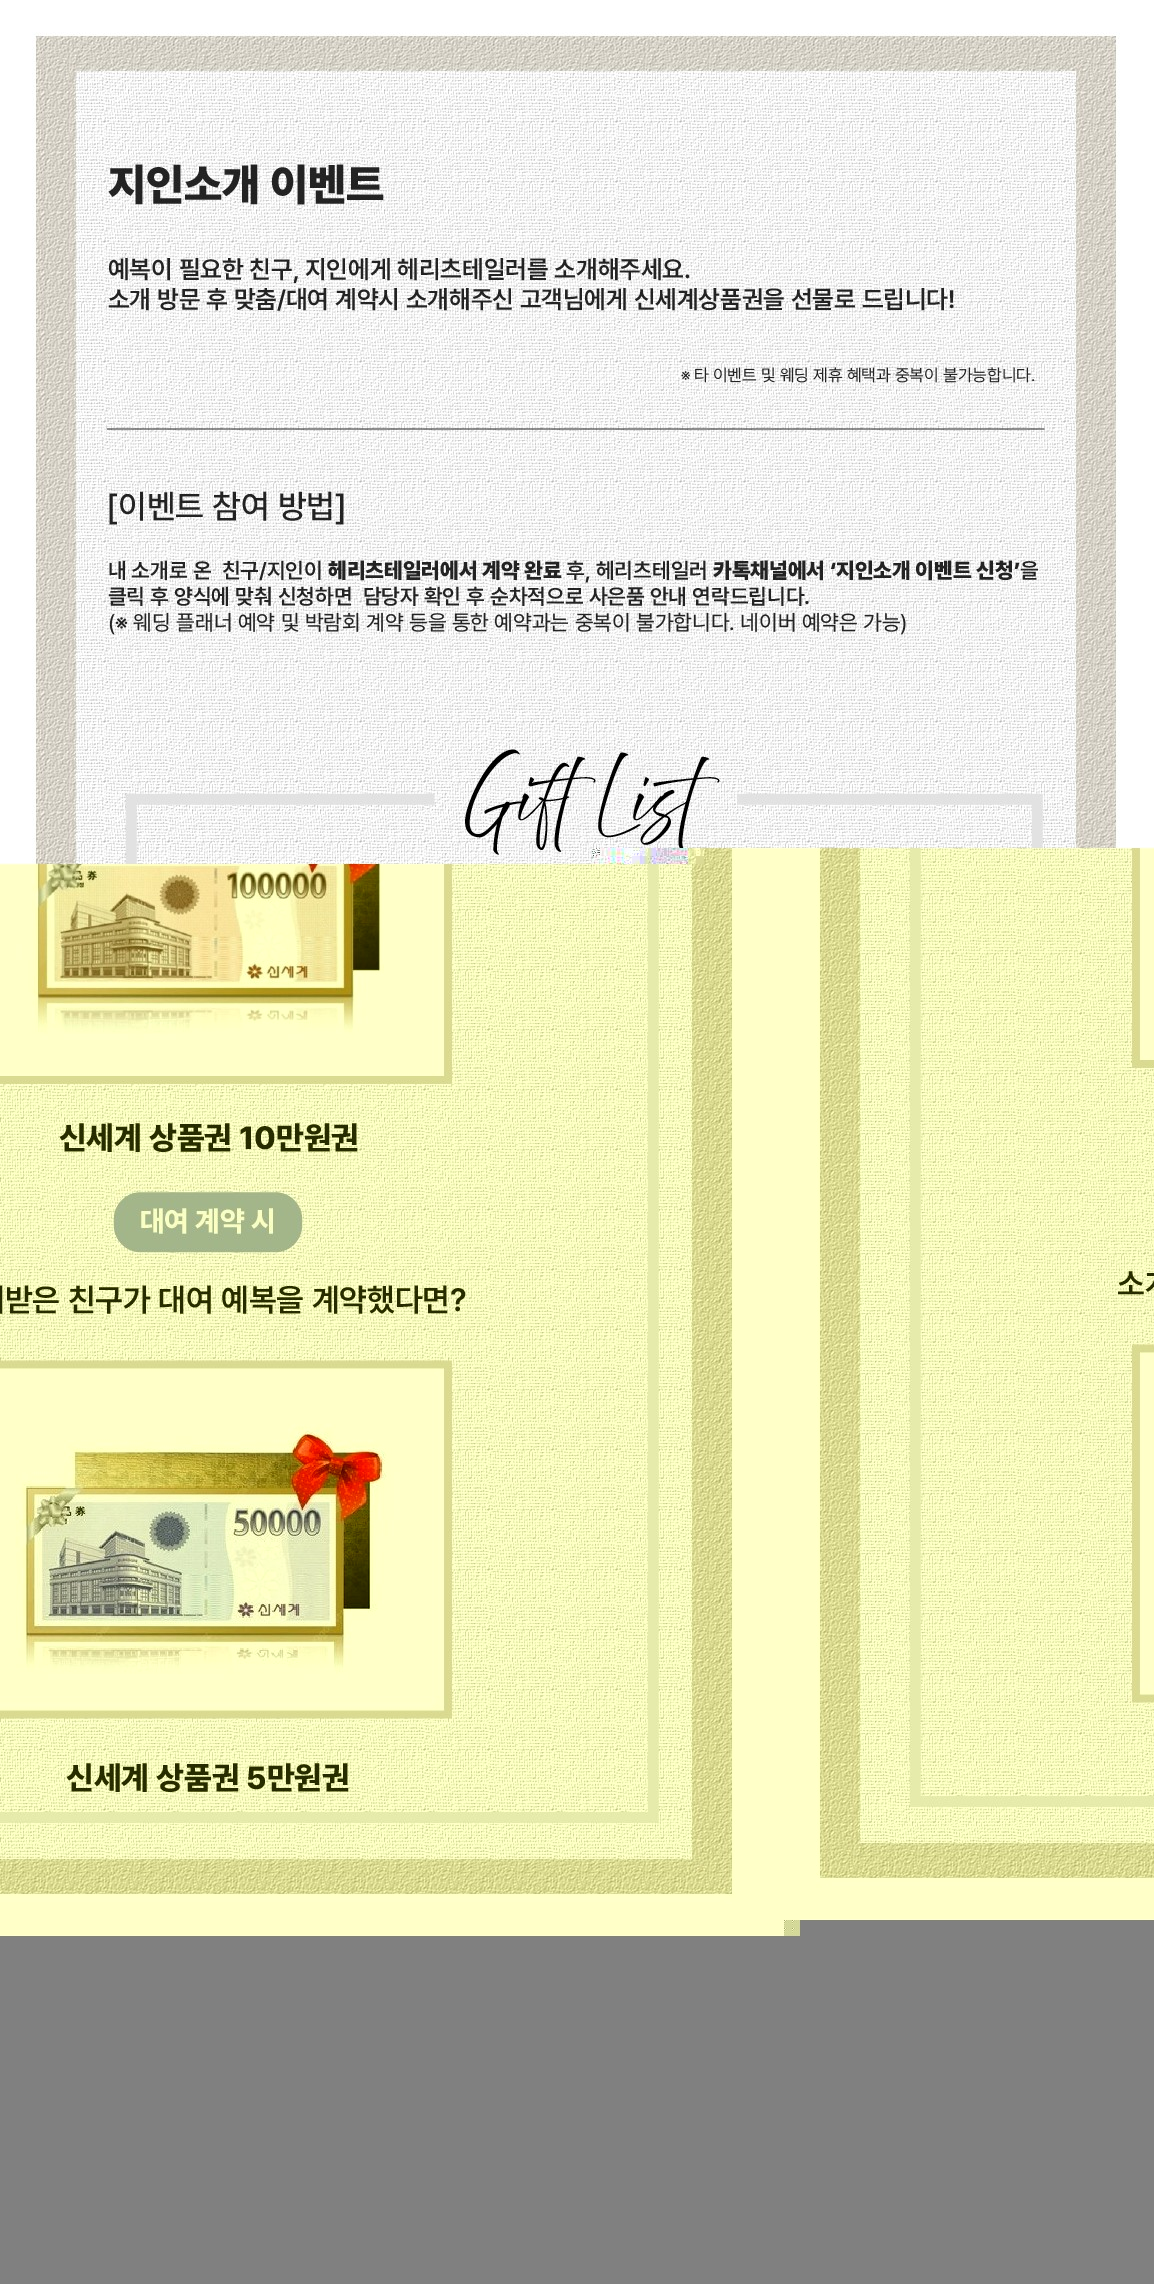
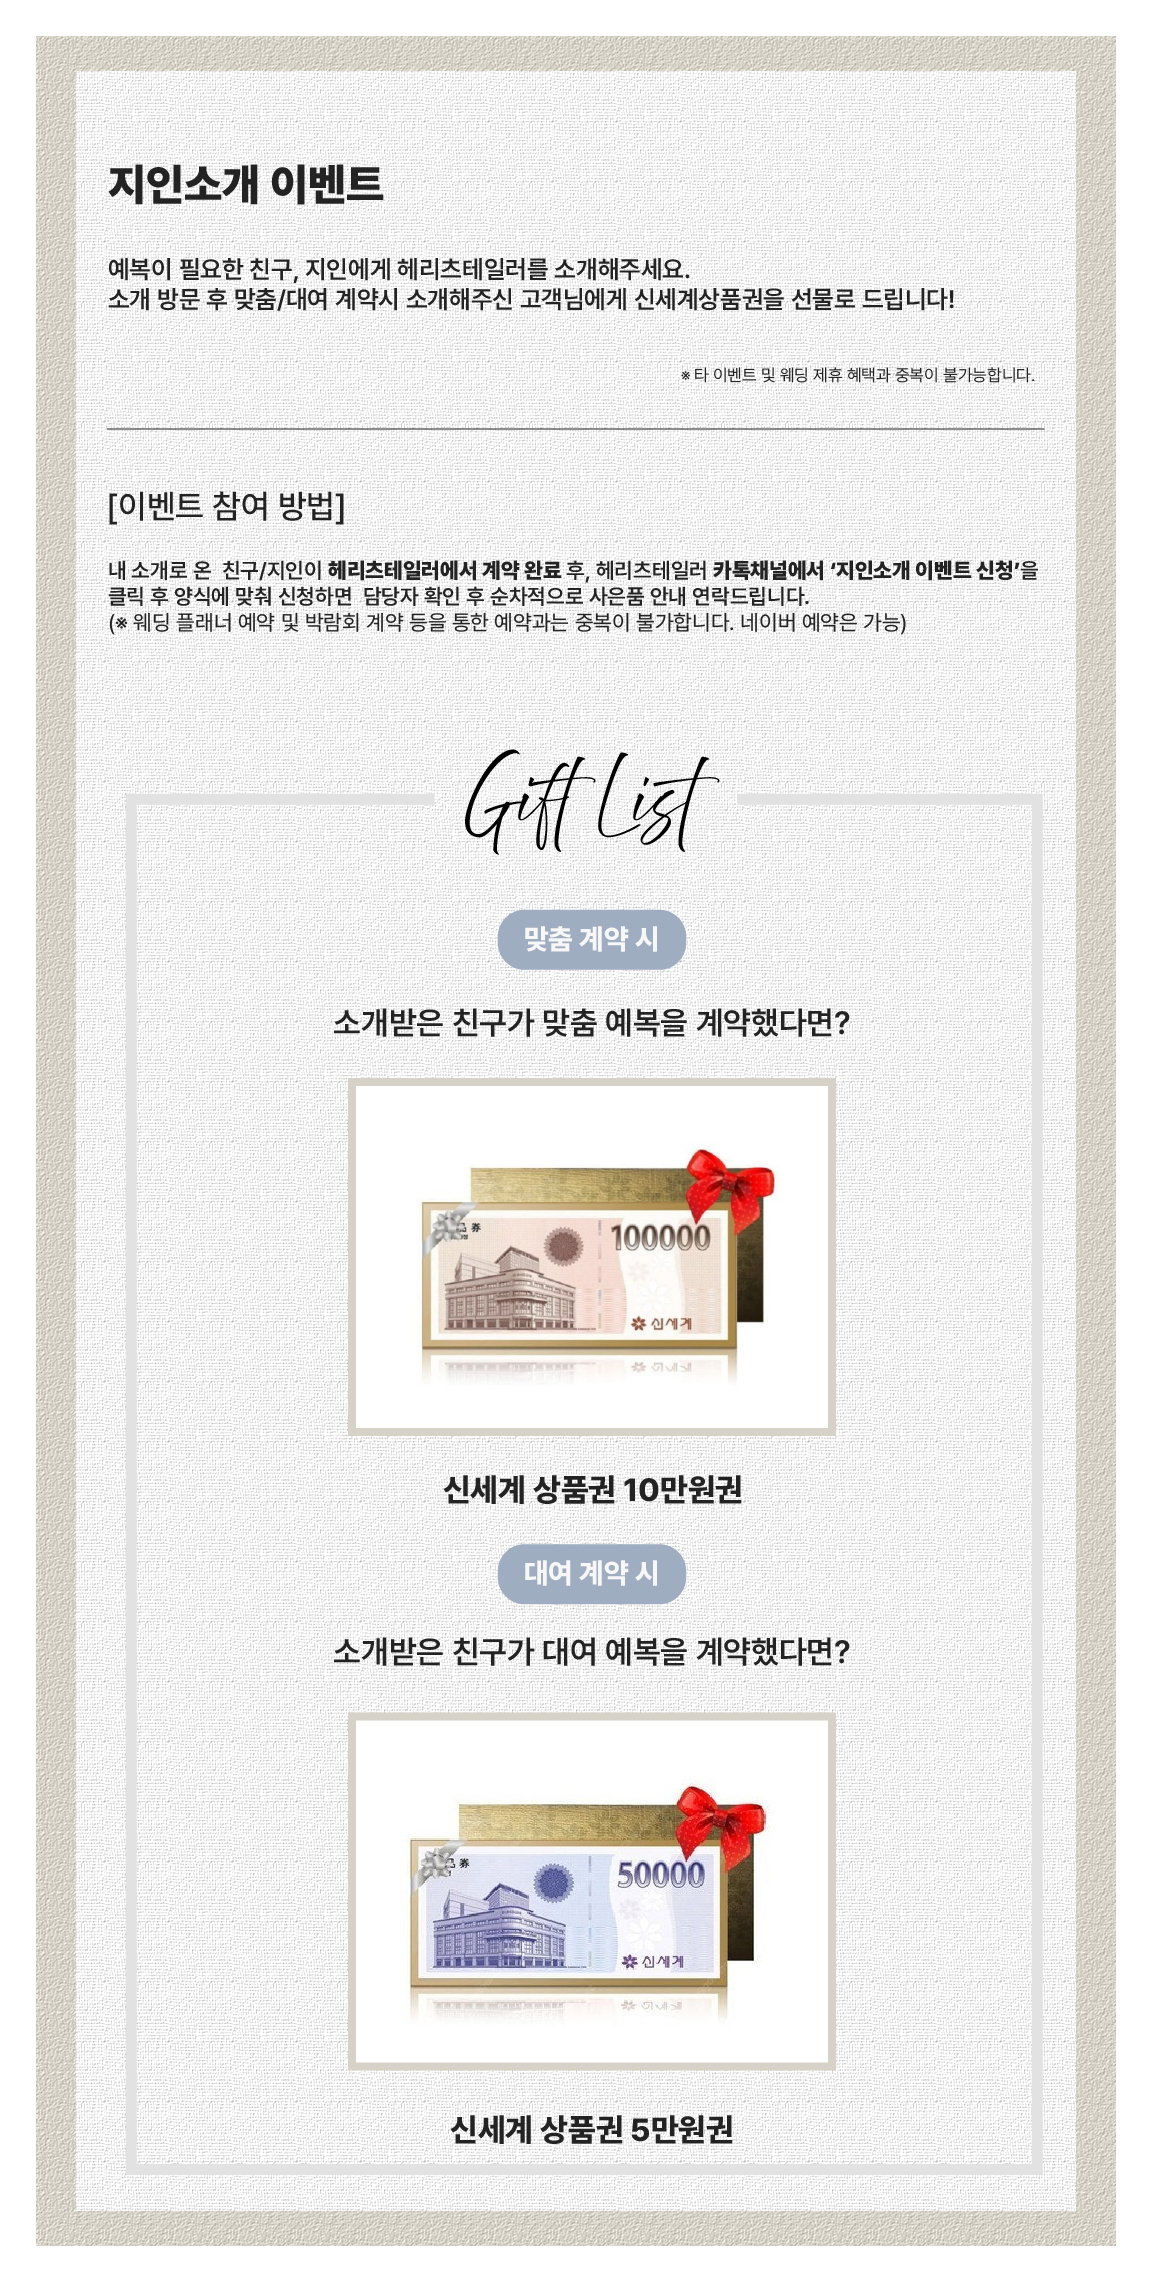
Replace referral event detail with supplied original JPEG and refresh caches

diff --git a/app.js b/app.js
@@ -187,7 +187,7 @@ function eventPage(category,articleId=0) {
  const heading='<section class="event-heading"><p class="eyebrow">HERITZ TAILOR / EVENTS</p><h1>Events.</h1><div class="event-intro-deck"><p>당신의 시작을 위한, 특별한 제안.</p><p>헤리츠와 함께 준비하는 소중한 순간.<br>이벤트별 구성과 혜택을 만나보세요.</p></div></section>'+eventTabs(isPackage?'package':'store');
  let content='';
  if(post&&!isPackage){
-  content='<article class="event-article"><p class="eyebrow">매장 이벤트</p><h2>'+escape(post.title)+'</h2><time>'+post.date+'</time><img class="event-detail-image" src="'+sitePath('assets/event/event-'+post.id+'-detail.jpg')+'" alt="'+escape(post.title)+' 상세 안내" width="'+post.detailWidth+'" height="'+post.detailHeight+'" decoding="async"><a href="#/event/store" class="event-return">← 목록으로 돌아가기</a><section class="event-recent"><h3>최신글</h3>'+EVENT_POSTS.filter(p=>p.id!==post.id).map(p=>'<a href="#/event/store/'+p.id+'">'+escape(p.title)+'</a>').join('')+'</section></article>';
+  content='<article class="event-article"><p class="eyebrow">매장 이벤트</p><h2>'+escape(post.title)+'</h2><time>'+post.date+'</time><img class="event-detail-image" src="'+sitePath('assets/event/event-'+post.id+'-detail.jpg?v=event-original-20261117')+'" alt="'+escape(post.title)+' 상세 안내" width="'+post.detailWidth+'" height="'+post.detailHeight+'" decoding="async"><a href="#/event/store" class="event-return">← 목록으로 돌아가기</a><section class="event-recent"><h3>최신글</h3>'+EVENT_POSTS.filter(p=>p.id!==post.id).map(p=>'<a href="#/event/store/'+p.id+'">'+escape(p.title)+'</a>').join('')+'</section></article>';
  } else if(isPackage) {
   content=(packageType!=='family'?packageCard('groom'):'')+(packageType!=='groom'?packageCard('family'):'');
  } else {

diff --git a/archive/index.html b/archive/index.html
@@ -80,6 +80,6 @@
     <div class="lightbox-bottom"><p>헤리츠테일러와 함께한 고객님의 소중한 순간</p><span id="photo-count"></span></div>
   </div></dialog>
 <noscript><div class="no-js">HERITZ TAILOR<br>페이지의 사진과 메뉴를 보려면 자바스크립트를 켜 주세요.<br><a href="https://naver.me/G7ZOAG1j">네이버 상담 예약</a></div></noscript>
-<script type="module" src="../app.js?v=intro-composite-20261116"></script>
+<script type="module" src="../app.js?v=event-original-20261117"></script>
 </body>
 </html>

diff --git a/event/index.html b/event/index.html
@@ -64,6 +64,6 @@
     <div class="lightbox-bottom"><p>헤리츠테일러와 함께한 고객님의 소중한 순간</p><span id="photo-count"></span></div>
   </div></dialog>
 <noscript><div class="no-js">HERITZ TAILOR<br>페이지의 사진과 메뉴를 보려면 자바스크립트를 켜 주세요.<br><a href="https://naver.me/G7ZOAG1j">네이버 상담 예약</a></div></noscript>
-<script type="module" src="../app.js?v=intro-composite-20261116"></script>
+<script type="module" src="../app.js?v=event-original-20261117"></script>
 </body>
 </html>

diff --git a/store/index.html b/store/index.html
@@ -96,6 +96,6 @@
     <div class="lightbox-bottom"><p>헤리츠테일러와 함께한 고객님의 소중한 순간</p><span id="photo-count"></span></div>
   </div></dialog>
 <noscript><div class="no-js">HERITZ TAILOR<br>페이지의 사진과 메뉴를 보려면 자바스크립트를 켜 주세요.<br><a href="https://naver.me/G7ZOAG1j">네이버 상담 예약</a></div></noscript>
-<script type="module" src="../app.js?v=intro-composite-20261116"></script>
+<script type="module" src="../app.js?v=event-original-20261117"></script>
 </body>
 </html>

diff --git a/index.html b/index.html
@@ -97,6 +97,6 @@
     </div>
   </dialog>
   <noscript><div class="no-js">HERITZ TAILOR<br>사진과 메뉴를 보려면 자바스크립트를 켜 주세요.<br><a href="https://naver.me/G7ZOAG1j">네이버 상담 예약</a></div></noscript>
-  <script type="module" src="app.js?v=intro-composite-20261116"></script>
+  <script type="module" src="app.js?v=event-original-20261117"></script>
 </body>
 </html>

diff --git a/about/index.html b/about/index.html
@@ -68,6 +68,6 @@
     <div class="lightbox-bottom"><p>헤리츠테일러와 함께한 고객님의 소중한 순간</p><span id="photo-count"></span></div>
   </div></dialog>
 
-<script type="module" src="../app.js?v=intro-composite-20261116"></script>
+<script type="module" src="../app.js?v=event-original-20261117"></script>
 </body>
 </html>
